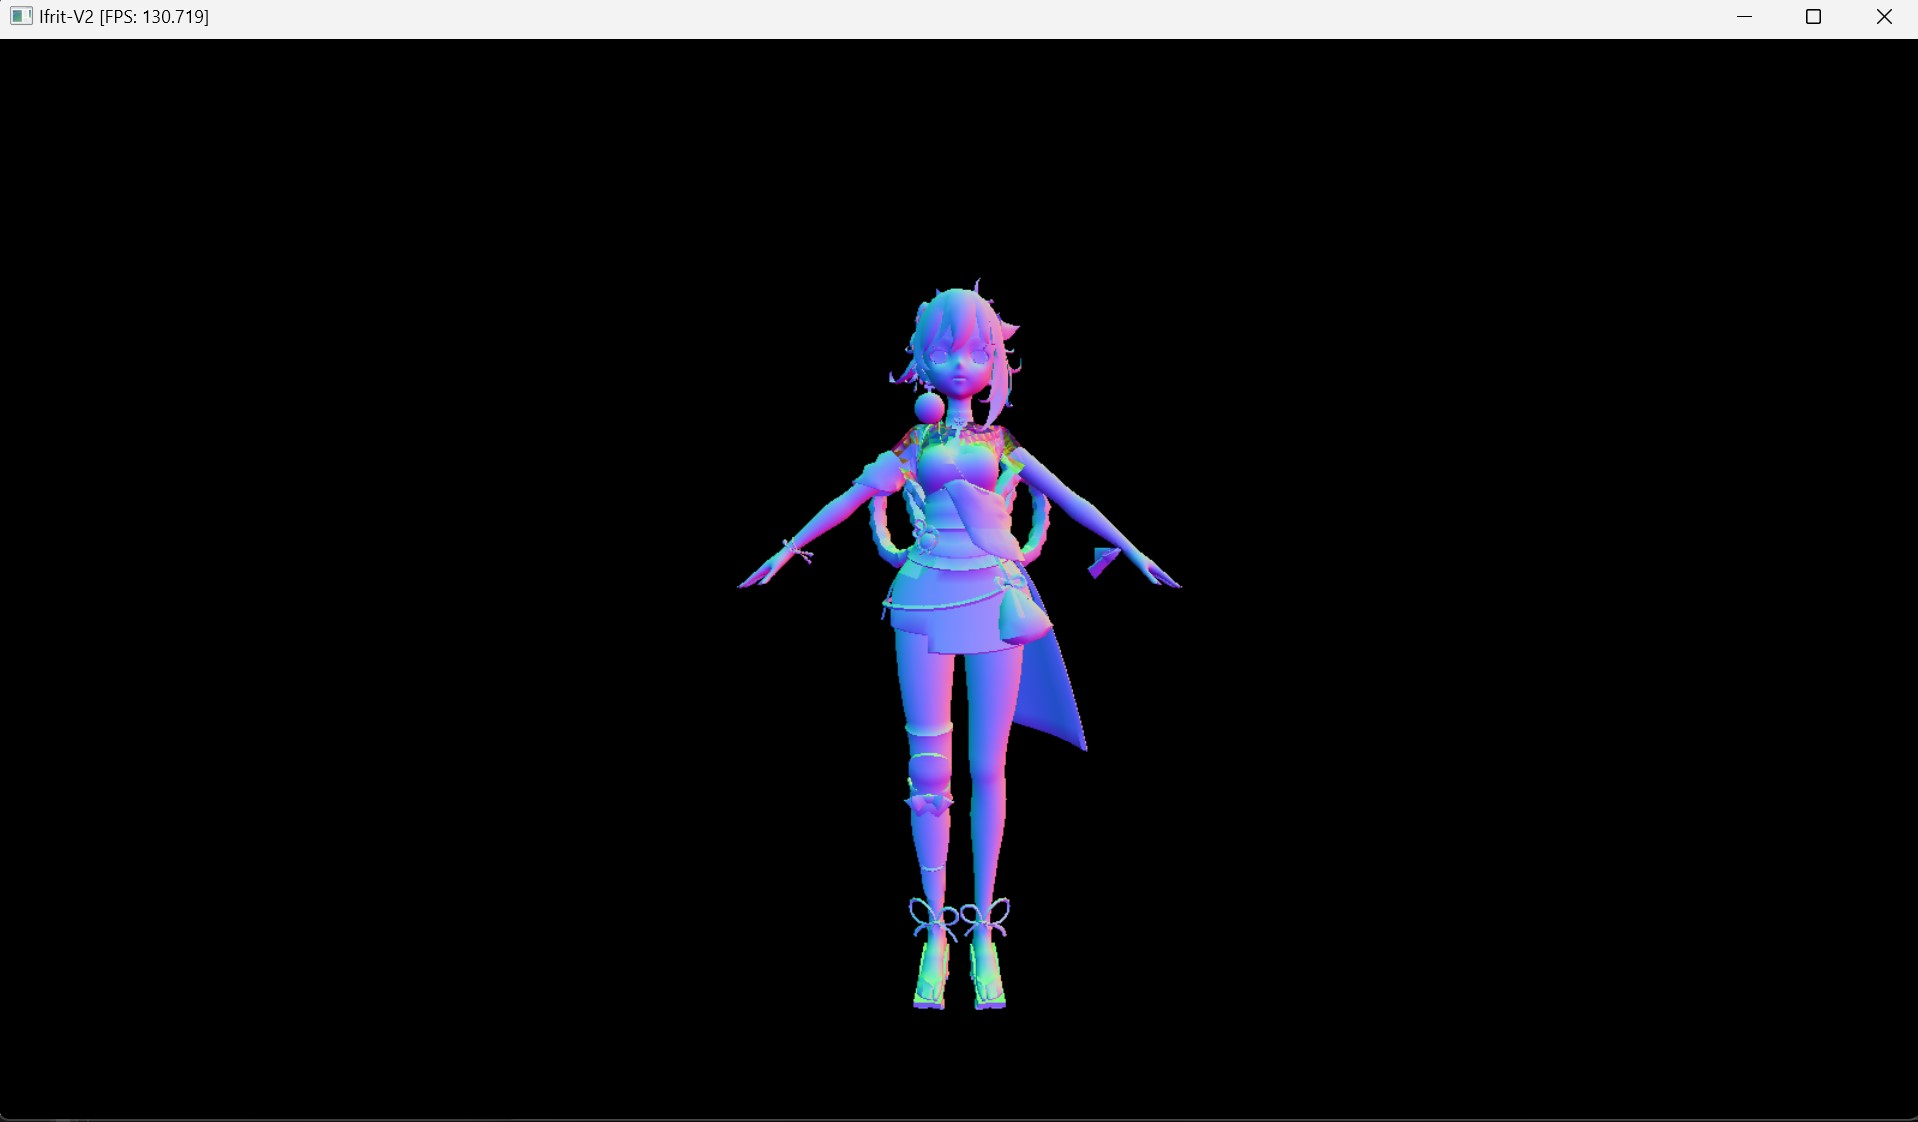
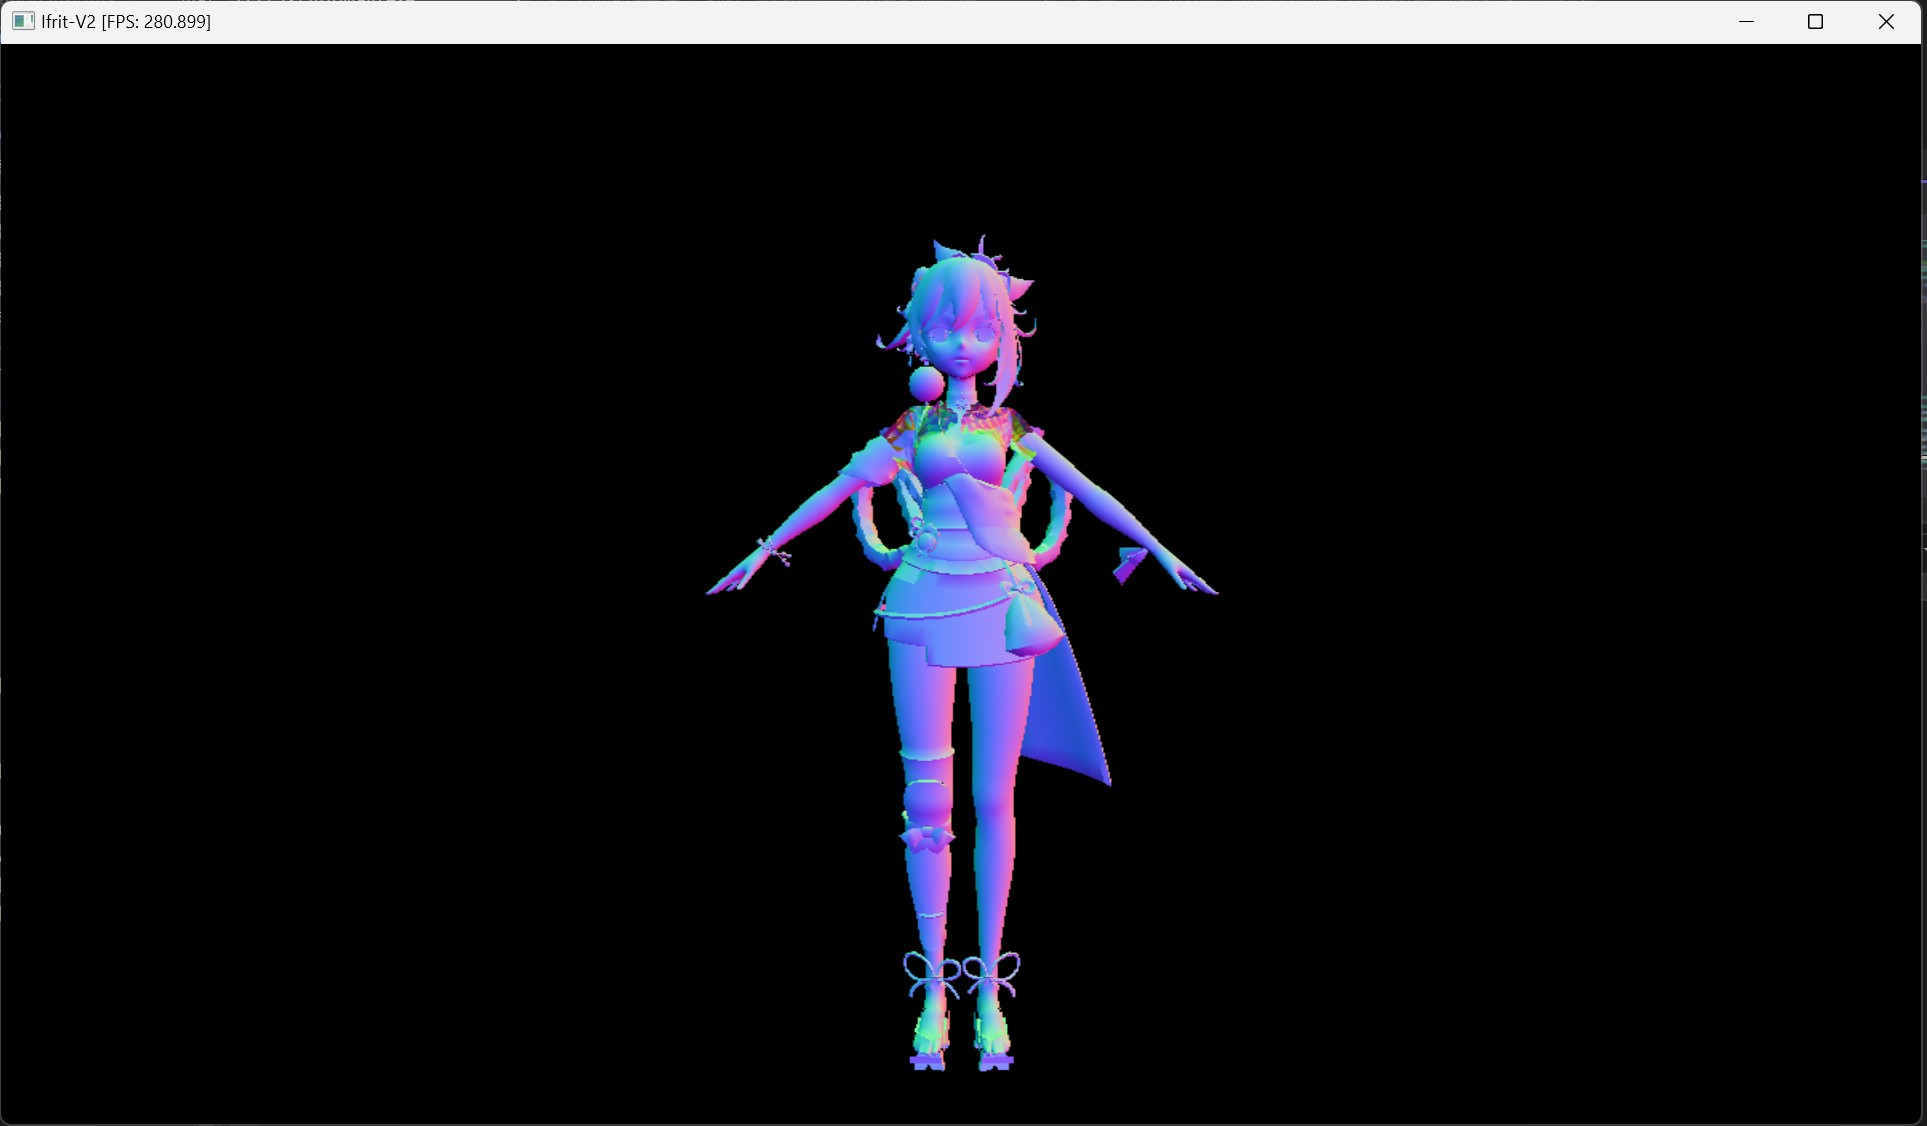
Performance optimization

Changed region(s): [[0.0, 0.0, 1.0, 1.0], [0.3691, 0.2184, 0.646, 0.967]]

diff --git a/src/engine/tileraster/TileRasterWorker.cpp b/src/engine/tileraster/TileRasterWorker.cpp
@@ -10,7 +10,6 @@ namespace Ifrit::Engine::TileRaster {
 	void TileRasterWorker::run() {
 		while (true) {
 			if (status.load() == TileRasterStage::CREATED || status.load() == TileRasterStage::TERMINATED || activated.load()==false) {
-				//context->workerIdleTime[workerId]++;
 				std::this_thread::yield();
 				continue;
 			}
@@ -184,14 +183,10 @@ namespace Ifrit::Engine::TileRaster {
 		int tileMaxx = std::min(context->tileBlocksX - 1, (int)(maxx / tileSize));
 		int tileMaxy = std::min(context->tileBlocksX - 1, (int)(maxy / tileSize));
 
-		float4 v1 = atp.v1;
-		float4 v2 = atp.v2;
-		float4 v3 = atp.v3;
-
 		float3 edgeCoefs[3];
-		edgeCoefs[0] = { v2.y - v1.y, v1.x - v2.x, v2.x * v1.y - v1.x * v2.y };
-		edgeCoefs[1] = { v3.y - v2.y, v2.x - v3.x, v3.x * v2.y - v2.x * v3.y };
-		edgeCoefs[2] = { v1.y - v3.y, v3.x - v1.x, v1.x * v3.y - v3.x * v1.y };
+		edgeCoefs[0] = atp.e1;
+		edgeCoefs[1] = atp.e2;
+		edgeCoefs[2] = atp.e3;
 
 		float3 tileCoords[4];
 
@@ -312,8 +307,8 @@ namespace Ifrit::Engine::TileRaster {
 			float tileMaxY = 1.0f * (tileIdY + 1) / context->tileBlocksX;
 
 
-			for (int T = 0; T < context->numThreads; T++) {
-				for (int j = 0; j < context->rasterizerQueue[T][curTile].size(); j++) {
+			for (int T = context->numThreads - 1; T >= 0; T--) {
+				for (int j = context->rasterizerQueue[T][curTile].size() - 1; j >= 0; j--) {
 					const auto& proposal = context->rasterizerQueue[T][curTile][j];
 					const auto& ptRef = context->assembledTriangles[proposal.clippedTriangle.workerId][proposal.clippedTriangle.primId];
 
@@ -628,19 +623,19 @@ namespace Ifrit::Engine::TileRaster {
 
 	void TileRasterWorker::fragmentProcessing(){
 		auto curTile = 0;
-		auto frameBufferWidth = context->frameBuffer->getWidth();
-		auto frameBufferHeight = context->frameBuffer->getHeight();
-		auto rdTiles = 0;
+		const auto frameBufferWidth = context->frameBuffer->getWidth();
+		const auto frameBufferHeight = context->frameBuffer->getHeight();
 		interpolatedVaryings.reserve(context->vertexShader->getVaryingCounts());
 		interpolatedVaryings.resize(context->vertexShader->getVaryingCounts());
 		interpolatedVaryingsAddr.reserve(context->vertexShader->getVaryingCounts());
 		interpolatedVaryingsAddr.resize(context->vertexShader->getVaryingCounts());
-		for (int i = 0; i < interpolatedVaryingsAddr.size(); i++) {
+
+		for (int i = interpolatedVaryingsAddr.size() - 1; i >= 0; i--) {
 			interpolatedVaryingsAddr[i] = &interpolatedVaryings[i];
 		}
 		while ((curTile = renderer->fetchUnresolvedTileFragmentShading()) != -1) {
-			for (int i = 0; i < context->numThreads; i++) {
-				for (int j = 0; j < context->coverQueue[i][curTile].size(); j++) {
+			for (int i = context->numThreads - 1; i >= 0; i--) {
+				for (int j = context->coverQueue[i][curTile].size() - 1; j >= 0; j--) {
 					auto& proposal = context->coverQueue[i][curTile][j];
 					const auto& triProposal = context->assembledTriangles[proposal.clippedTriangle.workerId][proposal.clippedTriangle.primId];
 					if (proposal.level == TileRasterLevel::PIXEL) {
@@ -980,7 +975,7 @@ namespace Ifrit::Engine::TileRaster {
 		for (int i = 0; i < 8; i++) {
 			//Depth Test
 			int x = dx + ((i & 1)) + ((i >> 2) << 1);
-			int y = dy + ((i % 4) >> 1);
+			int y = dy + ((i & 3) >> 1);
 			if(x>= fbWidth || y>= fbHeight){
 				continue;
 			}

diff --git a/include/engine/math/ShaderOps.h b/include/engine/math/ShaderOps.h
@@ -12,19 +12,19 @@ namespace Ifrit::Engine::Math::ShaderOps {
 	float dot(float3 a, float3 b);
 	float4x4 transpose(float4x4 a);
 
-	inline float dot(float4 a, float4 b) {
+	inline float dot(const float4& a, const float4& b) {
 		return a.x * b.x + a.y * b.y + a.z * b.z + a.w * b.w;
 	}
-	inline float4 sub(float4 a, float4 b) {
+	inline float4 sub(const float4& a, const float4& b) {
 		return float4(a.x - b.x, a.y - b.y, a.z - b.z, a.w - b.w);
 	}
-	inline float4 multiply(float4 a, float b) {
+	inline float4 multiply(const float4& a, const float& b) {
 		return float4(a.x * b, a.y * b, a.z * b, a.w * b);
 	}
-	inline float4 add(float4 a, float4 b) {
+	inline float4 add(const float4& a, const float4& b) {
 		return float4(a.x + b.x, a.y + b.y, a.z + b.z, a.w + b.w);
 	}
-	inline float4 lerp(float4 a, float4 b, float t) {
+	inline float4 lerp(const float4& a, const float4& b, const float& t) {
 		return add(multiply(a, 1 - t), multiply(b, t));
 	}
 }

diff --git a/demo/IfritMain.cpp b/demo/IfritMain.cpp
@@ -18,7 +18,7 @@ using namespace Ifrit::Engine::Math::ShaderOps;
 //float4x4 view = (lookAt({ 0,0.1,0.25}, { 0,0.1,0.0 }, { 0,1,0 })); //Bunny
 //float4x4 view = (lookAt({ 0,2600,2500}, { 0,0.1,-500.0 }, { 0,1,0 })); //Sponza
 
-float4x4 view = (lookAt({ 0,0.75,0.50}, { 0,0.75,0.0 }, { 0,1,0 })); //yomiya
+float4x4 view = (lookAt({ 0,0.75,1.50}, { 0,0.75,0.0 }, { 0,1,0 })); //yomiya
 float4x4 proj = (perspective(60*3.14159/180, 1920.0 / 1080.0, 0.1, 4000));
 float4x4 mvp = multiply(proj, view);
 

diff --git a/include/engine/base/VertexShaderResult.h b/include/engine/base/VertexShaderResult.h
@@ -22,7 +22,7 @@ namespace Ifrit::Engine {
 			varyings[id].resize(vertexCount);
 		}
 
-		VaryingStore* getVaryingBuffer(int id) {
+		inline VaryingStore* getVaryingBuffer(int id) {
 			return varyings[id].data();
 		}
 

diff --git a/README.md b/README.md
@@ -35,7 +35,7 @@ Successor to following repos:
 - Hardware Requirements:
 	- SSE4.1
 	- AVX2
-	- CUDA 11.0 (Planning)
+	- CUDA 12.4 (Planning)
 
 ## TODO
-- Suspected?: Performance drop after introducing homogeneous space clip
+- CUDA Integration 
